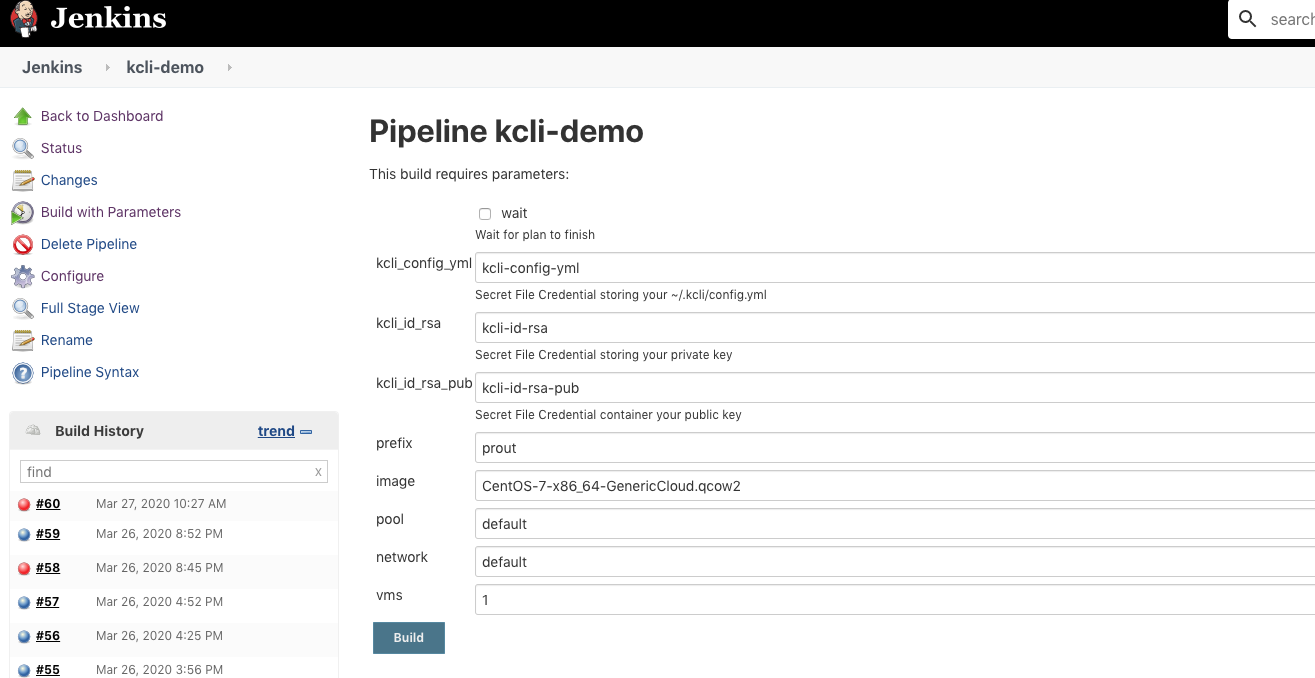
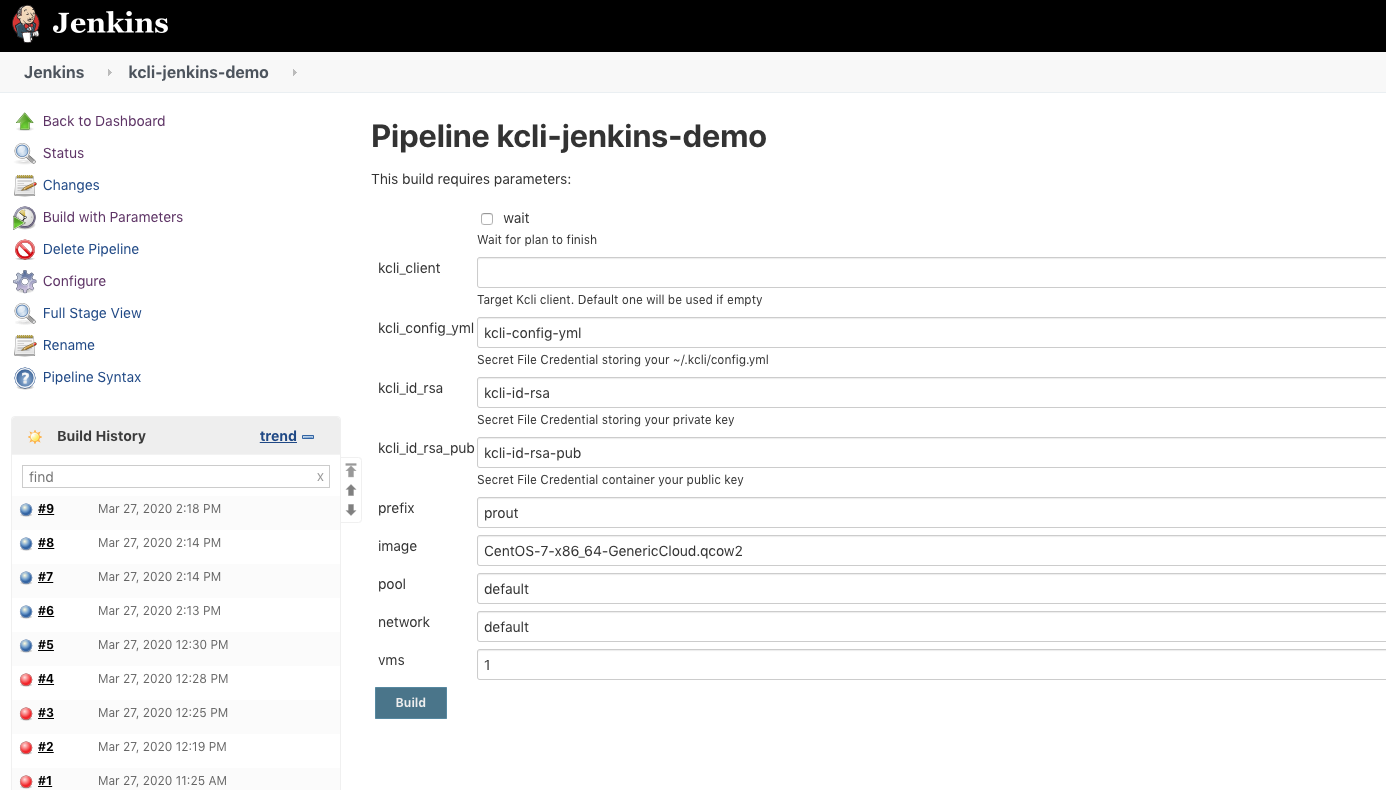
allow to specify client

diff --git a/README.md b/README.md
@@ -26,7 +26,7 @@ You can use arbitrary names for those credentials, but you will then have to eit
 
 ### Kcli configuration
 
-Default backend is *podman* . If you want to use docker or kubernetes instead, add the corresponding snippet in *~/.kcli/config.yml*.
+Default backend is *podman* . If you want to use Docker or Kubernetes instead, add the corresponding snippet in *~/.kcli/config.yml*.
 
 For instance, for Kubernetes:
 
@@ -36,7 +36,7 @@ jenkinsmode: kubernetes
 
 ### Create Jenkins file
 
-Now you can create a Jenkinsfile from default *kcli_plan.yml*
+Now you can create a Jenkinsfile from your specific, or from default *kcli_plan.yml*
 
 ```
 kcli create pipeline
@@ -44,7 +44,10 @@ kcli create pipeline
 
 You can see an example of the generated Jenkinsfile for both targets from the sample plan provided in this directory.
 
-Parameters from the plan get converted in Jenkins parameters, along with extra parameters for the credentials and with a `wait` boolean to indicated whether to wait for plan completion upon run.
+Parameters from the plan get converted in Jenkins parameters, along with extra parameters:
+- for needed credentials (kcli config file, public and private ssh key)
+- a `wait` boolean to indicated whether to wait for plan completion upon run.
+- a `kcli_client` parameter that can be used to override the target client where to launch plan at run time.
 
 Your Jenkinsfile is ready for use!
 
